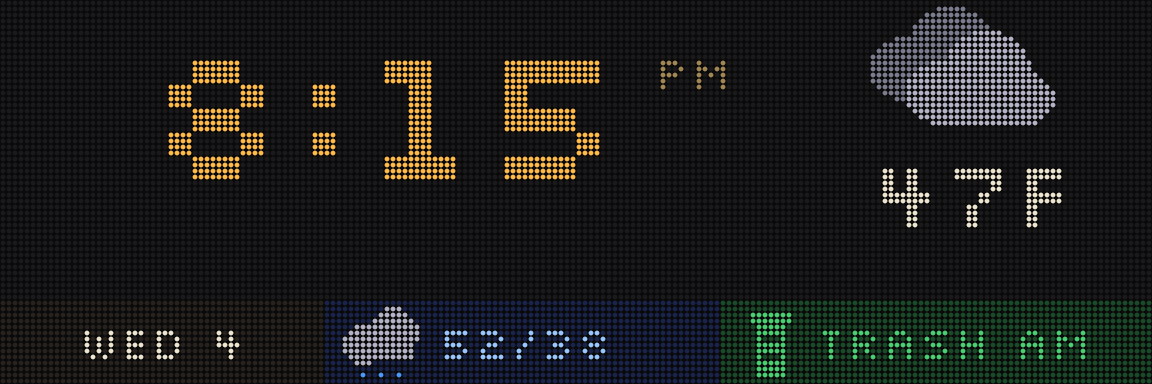
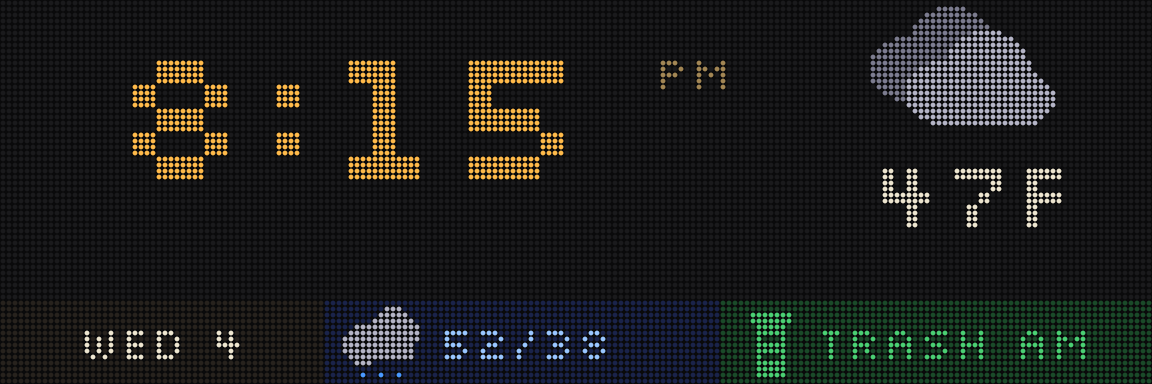
Mock-ups: nine variations of the big clock + status strip layout
Claude-Session: https://claude.ai/code/session_011VLn9NfTqi6vjjvBEMEdJX

diff --git a/mockups/render.py b/mockups/render.py
@@ -332,7 +332,7 @@ def idea_tiles():
 def idea_strip():
     """2. Big clock and weather on top, a segmented status strip below."""
     it = Sign()
-    it.txt(64, 10, 32, AMBER, "TOP_CENTER", "8:15")
+    it.txt(58, 10, 32, AMBER, "TOP_CENTER", "8:15")
     it.txt(122, 10, 8, DIM, "TOP_RIGHT", "PM")
     wx_icon(it, 162, 0, 3, 0, 22)
     it.txt(162, 28, 16, WHITE, "TOP_CENTER", "47F")
@@ -498,6 +498,194 @@ SCREENS = [
 
 
 # ---------------------------------------------------------------------------
+# Idea 2 variations: big clock on top, status strip.
+
+TRASH_FG, TRASH_BG = (60, 200, 100), (15, 60, 30)
+TMRW_FG, TMRW_BG = (140, 190, 255), (10, 25, 60)
+DATE_BG = (28, 24, 20)
+
+
+class Seg:
+    """One strip segment: optional icon (width, draw(it, x, y)) then text."""
+
+    def __init__(self, text, fg, bg, icon=None, grow=1.0):
+        self.text, self.fg, self.bg, self.icon, self.grow = text, fg, bg, icon, grow
+
+
+def ico_rain(it, x, y):
+    wx_small(it, x + 6, y + 4, 61)
+
+
+def ico_cloud(it, x, y):
+    wx_small(it, x + 6, y + 4, 3)
+
+
+def ico_sun(it, x, y):
+    wx_small(it, x + 6, y + 4, 2)
+
+
+def ico_can(bg):
+    return lambda it, x, y: can_icon(it, x, y - 1, TRASH_FG, bg)
+
+
+ICON_W = {ico_rain: 13, ico_cloud: 13, ico_sun: 13}
+
+
+def icon_w(icon):
+    return ICON_W.get(icon, 8) if icon else 0
+
+
+def strip(it, segs, y, h=14, style="fill", x0=0, x1=W):
+    """Lay segments out across x0..x1: natural widths, spare room shared out."""
+    nat = [icon_w(s.icon) + (3 if s.icon else 0) + it.text_w(8, s.text) + 6 for s in segs]
+    spare = (x1 - x0) - sum(nat)
+    tot = sum(s.grow for s in segs)
+    x = x0
+    for k, (s, n) in enumerate(zip(segs, nat)):
+        w = n + int(spare * s.grow / tot) if k < len(segs) - 1 else x1 - x
+        if style == "fill":
+            it.rect(x, y, w, h, s.bg)
+        elif style == "outline":
+            c = scale(s.fg, 0.6)
+            it.hline(x + 2, y, w - 4, c)
+            it.hline(x + 2, y + h - 1, w - 4, c)
+            it.vline(x + 1, y + 1, h - 2, c)
+            it.vline(x + w - 2, y + 1, h - 2, c)
+        elif style == "underline":
+            it.rect(x + 2, y + h - 2, w - 4, 2, s.fg)
+        cw = n - 6
+        cx = x + (w - cw) // 2
+        ty = y + (h - 5) // 2 - (1 if style == "underline" else 0)
+        if s.icon:
+            s.icon(it, cx, ty - 2)
+            cx += icon_w(s.icon) + 3
+        it.txt(cx, ty, 8, s.fg, "TOP_LEFT", s.text)
+        x += w
+
+
+def top_clock(it, hm, ampm, temp, code, y=0, h=50, wx=True):
+    """Big clock on the left 128 px and the weather block on the right panel."""
+    cy = y + (h - 20) // 2
+    if wx:
+        it.txt(58, cy, 32, AMBER, "TOP_CENTER", hm)
+        it.txt(124, cy, 8, DIM, "TOP_RIGHT", ampm)
+        wx_icon(it, 162, y, code, 0, 22)
+        it.txt(162, y + 28, 16, WHITE, "TOP_CENTER", temp)
+    else:
+        it.txt(92, cy, 32, AMBER, "TOP_CENTER", hm)
+        it.txt(92 + it.text_w(32, hm) // 2 + 4, cy, 8, DIM, "TOP_LEFT", ampm)
+
+
+def trash_night_segs(style_bg=True):
+    bg = lambda c: c if style_bg else BLACK
+    return [
+        Seg("WED 4", WHITE, bg(DATE_BG)),
+        Seg("52/38", TMRW_FG, bg(TMRW_BG), ico_rain),
+        Seg("TRASH AM", TRASH_FG, bg(TRASH_BG), ico_can(bg(TRASH_BG))),
+    ]
+
+
+def v_a():
+    it = Sign()
+    top_clock(it, "8:15", "PM", "47F", 3)
+    strip(it, trash_night_segs(), 50)
+    return it
+
+
+def v_b():
+    it = Sign()
+    top_clock(it, "2:47", "PM", "58F", 2)
+    strip(it, [Seg("THU NOV 5", WHITE, DATE_BG),
+               Seg("H64 L41", AMBER, (50, 32, 8)),
+               Seg("TMRW 52", TMRW_FG, TMRW_BG, ico_rain)], 50)
+    return it
+
+
+def v_c():
+    it = Sign()
+    top_clock(it, "8:15", "PM", "47F", 3)
+    strip(it, trash_night_segs(False), 50, style="outline")
+    return it
+
+
+def v_d():
+    it = Sign()
+    top_clock(it, "8:15", "PM", "47F", 3)
+    strip(it, trash_night_segs(False), 50, style="underline")
+    return it
+
+
+def v_e():
+    it = Sign()
+    strip(it, trash_night_segs(), 0)
+    top_clock(it, "8:15", "PM", "47F", 3, y=14, h=50)
+    return it
+
+
+def v_f():
+    it = Sign()
+    top_clock(it, "8:15", "PM", "", 3, wx=False)
+    it.txt(92, 40, 8, DIM, "TOP_CENTER", "WED NOV 4")
+    strip(it, [Seg("NOW 47", WHITE, DATE_BG, ico_cloud),
+               Seg("TMRW 52/38", TMRW_FG, TMRW_BG, ico_rain),
+               Seg("TRASH AM", TRASH_FG, TRASH_BG, ico_can(TRASH_BG))], 50)
+    return it
+
+
+def v_g():
+    it = Sign()
+    top_clock(it, "9:30", "PM", "45F", 3)
+    it.rect(0, 50, W, 14, (25, 110, 50))
+    for x in (4, 180):
+        can_icon(it, x, 51, (200, 255, 210), (25, 110, 50), lid_open=True)
+    it.txt(96, 54, 8, (220, 255, 225), "TOP_CENTER", "PUT THE TRASH OUT")
+    return it
+
+
+def v_h():
+    it = Sign()
+    top_clock(it, "8:15", "PM", "47F", 3, h=46)
+    # Tomorrow's temperatures, 6 AM .. 10 PM, as a line in the left of the strip.
+    temps = [38, 39, 41, 44, 47, 49, 51, 52, 52, 51, 49, 47, 45, 44, 43, 42, 41]
+    rain = set(range(3, 8))
+    x0, x1, y0, y1 = 32, 124, 62, 50
+    it.txt(2, 54, 8, DIM, "TOP_LEFT", "TMRW")
+    for x in range(x0, x1):
+        h = (x - x0) / (x1 - x0) * (len(temps) - 1)
+        i = min(int(h), len(temps) - 2)
+        tf = temps[i] + (temps[i + 1] - temps[i]) * (h - i)
+        y = round(y0 - (tf - 36) / (54 - 36) * (y0 - y1))
+        c = temp_color(tf)
+        it.vline(x, y + 1, 64 - y - 1, scale(c, 0.12))
+        it.px(x, y, c)
+        if i in rain and x % 2 == 0:
+            it.px(x, 63, RAIN_C)
+    strip(it, [Seg("TRASH AM", TRASH_FG, TRASH_BG, ico_can(TRASH_BG))], 50, x0=128)
+    return it
+
+
+def v_i():
+    it = Sign()
+    top_clock(it, "11:40", "PM", "44F", 3)
+    strip(it, trash_night_segs(), 50)
+    it.buf = (it.buf.astype(np.float32) * 0.3).astype(np.uint8)
+    return it
+
+
+STRIP_SCREENS = [
+    ("strip_a_fill", "A: filled segments (idea 2 as drawn)", v_a),
+    ("strip_b_day", "B: normal afternoon, no trash: date | today | tomorrow", v_b),
+    ("strip_c_outline", "C: outlined chips", v_c),
+    ("strip_d_underline", "D: coloured underlines only", v_d),
+    ("strip_e_top", "E: strip on top, like a phone status bar", v_e),
+    ("strip_f_wide_clock", "F: clock spans the sign, NOW moves into the strip", v_f),
+    ("strip_g_takeover", "G: trash takeover, whole strip after 9 PM", v_g),
+    ("strip_h_graph", "H: tomorrow's temperature line in the strip", v_h),
+    ("strip_i_night", "I: same as A, dimmed for late evening", v_i),
+]
+
+
+# ---------------------------------------------------------------------------
 # LED look: every pixel becomes a soft round dot; unlit LEDs stay faintly visible.
 
 def led(img, s=6, bg=(10, 10, 11), off=(26, 26, 28)):
@@ -513,26 +701,28 @@ def led(img, s=6, bg=(10, 10, 11), off=(26, 26, 28)):
     return Image.fromarray((np.clip(out, 0, 1) * 255).astype(np.uint8), "RGB")
 
 
-def main():
-    os.makedirs(OUT, exist_ok=True)
-    label_f = ImageFont.truetype("DejaVuSans.ttf", 22)
-    tiles = []
-    for name, title, fn in SCREENS:
-        im = led(fn().image())
+def sheet(items, path, label_f):
+    tiles = [(title, led(fn().image())) for _, title, fn in items]
+    for (name, _, _), (_, im) in zip(items, tiles):
         im.save(os.path.join(OUT, name + ".png"))
-        tiles.append((title, im))
-    # Contact sheet, one screen per row.
     tw, th = tiles[0][1].size
     pad, lab = 24, 34
-    sheet = Image.new("RGB", (tw + 2 * pad, len(tiles) * (th + lab + pad) + pad), (32, 32, 34))
-    d = ImageDraw.Draw(sheet)
+    out = Image.new("RGB", (tw + 2 * pad, len(tiles) * (th + lab + pad) + pad), (32, 32, 34))
+    d = ImageDraw.Draw(out)
     y = pad
     for title, im in tiles:
         d.text((pad, y), title, font=label_f, fill=(220, 220, 220))
-        sheet.paste(im, (pad, y + lab))
+        out.paste(im, (pad, y + lab))
         y += th + lab + pad
-    sheet.save(os.path.join(OUT, "sheet.png"))
-    print("wrote", len(tiles), "screens to", OUT)
+    out.save(os.path.join(OUT, path))
+
+
+def main():
+    os.makedirs(OUT, exist_ok=True)
+    label_f = ImageFont.truetype("DejaVuSans.ttf", 22)
+    sheet(SCREENS, "sheet.png", label_f)
+    sheet(STRIP_SCREENS, "sheet_strip.png", label_f)
+    print("wrote", len(SCREENS) + len(STRIP_SCREENS), "screens to", OUT)
 
 
 if __name__ == "__main__":
